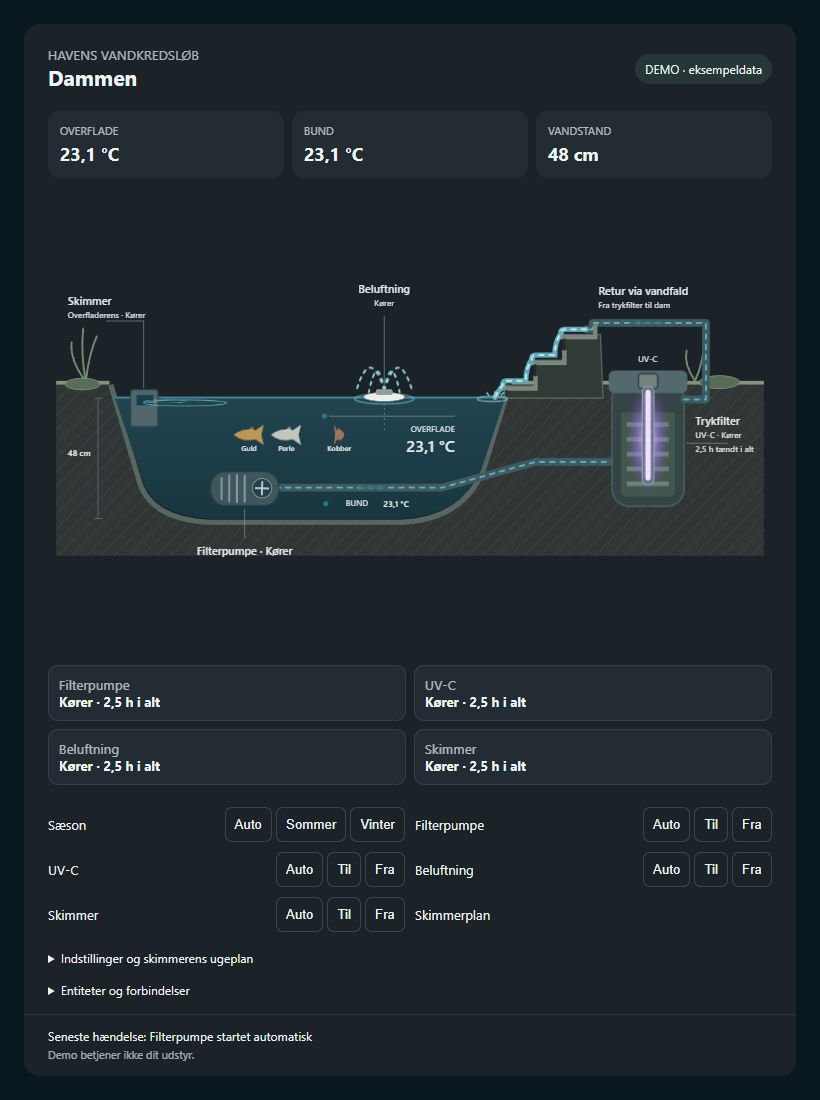
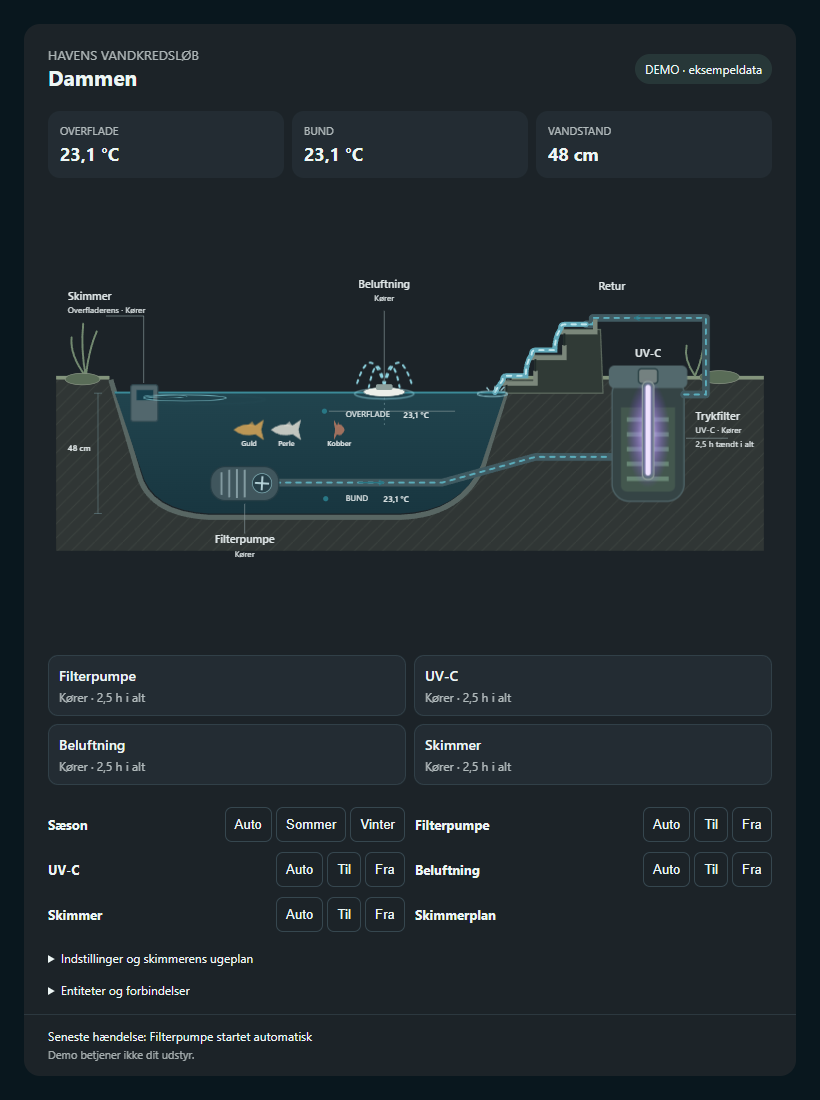
Unify equipment heading and status typography; match temperature labels

diff --git a/pond-flow-card.js b/pond-flow-card.js
@@ -178,7 +178,7 @@ class PondFlowCard extends HTMLElement {
       header{padding:22px 24px 8px;display:flex;justify-content:space-between;align-items:center}h2{font-size:21px;margin:0}small{opacity:.7}.badge{font-size:12px;padding:7px 10px;border-radius:30px;background:#54887933}.metrics{display:grid;grid-template-columns:repeat(3,1fr);gap:8px;padding:12px 24px}.metric{background:#7396a415;padding:12px;border-radius:12px}.metric small{display:block;font-size:11px}.metric strong{display:block;margin-top:4px;font-size:18px}
       svg{width:100%;height:auto;min-height:160px;flex:1 0 auto;display:block}ha-card> :not(svg){flex-shrink:0}svg text{font-family:system-ui;fill:#d7e9ed;font-size:13px}.flow{fill:none;stroke:#53d5db;stroke-width:7;stroke-linecap:round;stroke-dasharray:9 14;opacity:.28}.active{opacity:1;animation:water 2s linear infinite}@keyframes water{to{stroke-dashoffset:-48}}@media(prefers-reduced-motion:reduce){.active{animation:none}}
       .controls{padding:4px 24px 18px;display:grid;grid-template-columns:1fr 1fr;gap:10px}.control{display:flex;justify-content:space-between;align-items:center;gap:8px;font-size:13px}.control select{max-width:115px;padding:8px;border:1px solid #7196a550;border-radius:8px;background:var(--card-background-color,#193340);color:inherit}.status{padding:12px 24px;border-top:1px solid #7196a530;font-size:12px;line-height:1.6}.error{color:#f9a99b}.note{opacity:.65;font-size:11px}@media(max-width:420px){.controls{grid-template-columns:1fr}.metrics{padding:12px}.metric strong{font-size:15px}}
-      [data-info]{cursor:pointer}.diagram-value{font-size:15px;font-weight:600;fill:#fff}.equipment{display:grid;grid-template-columns:repeat(2,minmax(0,1fr));gap:8px;padding:8px 24px 18px}.equipment button{font:inherit;text-align:left;color:inherit;background:#7396a415;border:1px solid #7196a530;border-radius:10px;padding:10px;cursor:pointer}.equipment small{display:block}.equipment strong{font-size:13px}.controls button{padding:9px;border-radius:7px;border:1px solid #7196a550;color:inherit;background:transparent;cursor:pointer}.controls button[aria-pressed=true]{background:#438b8b55}.options{display:flex;gap:4px;flex-wrap:wrap}.control{flex-wrap:wrap}.rotor{transform-box:fill-box;transform-origin:center;animation:spin 1.8s linear infinite}@keyframes spin{to{transform:rotate(360deg)}}@media(prefers-reduced-motion:reduce){.rotor{animation:none}}details{padding:0 24px 16px;font-size:12px;overflow-wrap:anywhere}
+      [data-info]{cursor:pointer}.diagram-value{font-size:15px;font-weight:600;fill:#fff}.equipment{display:grid;grid-template-columns:repeat(2,minmax(0,1fr));gap:8px;padding:8px 24px 18px}.equipment button{font:inherit;text-align:left;color:inherit;background:#7396a415;border:1px solid #7196a530;border-radius:10px;padding:10px;cursor:pointer}.equipment small{display:block;font-size:12px;font-weight:400;margin-top:4px}.equipment strong{display:block;font-size:14px;font-weight:600}.controls button{padding:9px;border-radius:7px;border:1px solid #7196a550;color:inherit;background:transparent;cursor:pointer}.controls button[aria-pressed=true]{background:#438b8b55}.options{display:flex;gap:4px;flex-wrap:wrap}.control{flex-wrap:wrap}.rotor{transform-box:fill-box;transform-origin:center;animation:spin 1.8s linear infinite}@keyframes spin{to{transform:rotate(360deg)}}@media(prefers-reduced-motion:reduce){.rotor{animation:none}}details{padding:0 24px 16px;font-size:12px;overflow-wrap:anywhere}
       .fish-swim{animation:swim var(--swim-duration,22s) linear infinite;animation-delay:var(--swim-delay,0s);transform-box:view-box;transform-origin:0 0}@keyframes swim{0%,100%{transform:translateX(50px)}46%,50%{transform:translateX(-60px)}96%{transform:translateX(50px)}}
       .fish-bubble{fill:none;stroke:#b1d8e0;stroke-width:1.2;opacity:0;animation:fish-bubble 5.5s linear 1 both paused;animation-delay:0s}.fish-bubble:nth-child(2){animation-delay:.2s}.fish-bubble:nth-child(3){animation-delay:.4s}@keyframes fish-bubble{0%{transform:translate(0,0);opacity:0}12%{opacity:.65}75%{opacity:.35}100%{transform:translate(-5px,var(--bubble-rise,-60px));opacity:0}}
       .skimmer-current{visibility:hidden}.skimmer-current.moving{visibility:visible}.intake-ring{fill:none;stroke:#8ad3dc;stroke-width:2;transform-origin:0 0;opacity:0}.moving .intake-ring{animation:intake-ring 3.6s linear infinite}.intake-ring:nth-child(2){animation-delay:-1.2s}.intake-ring:nth-child(3){animation-delay:-2.4s}@keyframes intake-ring{0%{transform:scale(1);opacity:0}15%{opacity:.7}80%{opacity:.5}100%{transform:scale(.04);opacity:0}}.uv-glow{opacity:0}.uv-lamp.on .uv-glow{opacity:1}.uv-tube{fill:#718583}.uv-lamp.on .uv-tube{fill:#efe3ff;filter:drop-shadow(0 0 4px #b489ff)}
@@ -198,7 +198,7 @@ class PondFlowCard extends HTMLElement {
  <pattern id="earth" width="22" height="22" patternUnits="userSpaceOnUse"><path d="M0 22L22 0" stroke="#4a514c" stroke-width=".6"/></pattern>
  <linearGradient id="water" x2="0" y2="1"><stop stop-color="#21444e"/><stop offset="1" stop-color="#183640"/></linearGradient>
  <marker id="arrow" viewBox="0 0 10 10" refX="8" refY="5" markerWidth="5" markerHeight="5" orient="auto-start-reverse"><path d="M0 1L8 5L0 9" fill="none" stroke="#287785" stroke-width="1.7"/></marker>
- <style>.pond-diagram text{font-family:Segoe UI,Arial,sans-serif;fill:var(--primary-text-color,#e1e8e9)}.label{font-size:17px;font-weight:600}.small{font-size:13px;fill:#63777b}.value{font-size:25px;font-weight:600}.leader{fill:none;stroke:#86979a;stroke-width:1}.pipe{fill:none;stroke:#405a61;stroke-width:12;stroke-linejoin:round;stroke-linecap:round}.flow{fill:none;stroke:#5baebd;stroke-width:3;stroke-dasharray:7 9;opacity:.3}.frame{fill:#f9faf7;stroke:#d8dfdb;stroke-width:1}.flow.active{opacity:1}.fish{pointer-events:visiblePainted}</style>
+ <style>.pond-diagram text{font-family:Segoe UI,Arial,sans-serif;fill:var(--primary-text-color,#e1e8e9)}.label{font-size:17px;font-weight:600}.small{font-size:13px;font-weight:400;fill:#63777b}.temperature-reading{font-size:13px;font-weight:600}.leader{fill:none;stroke:#86979a;stroke-width:1}.pipe{fill:none;stroke:#405a61;stroke-width:12;stroke-linejoin:round;stroke-linecap:round}.flow{fill:none;stroke:#5baebd;stroke-width:3;stroke-dasharray:7 9;opacity:.3}.frame{fill:#f9faf7;stroke:#d8dfdb;stroke-width:1}.flow.active{opacity:1}.fish{pointer-events:visiblePainted}</style>
 <radialGradient id="uv-warmth"><stop stop-color="#eadbff" stop-opacity=".9"/><stop offset=".45" stop-color="#b58aff" stop-opacity=".5"/><stop offset="1" stop-color="#8642ed" stop-opacity="0"/></radialGradient><clipPath id="fish-water"><path d="M141 362H748L711 ${474+depth}Q679 ${547+depth} 584 ${550+depth}H288Q198 ${546+depth} 182 ${483+depth}Z"/></clipPath></defs>
 <rect width="1200" height="${760+depth}" rx="24" fill="var(--ha-card-background,var(--card-background-color,#1c2328))"/>
 <!-- Tydeligt tværsnit: jord, bassinfolie og vand. -->
@@ -233,7 +233,7 @@ class PondFlowCard extends HTMLElement {
 <rect x="961" y="345" width="18" height="152" rx="8" fill="#536c6d" stroke="#9cad9f" stroke-width="1.5"/>
 <rect class="uv-tube" x="966" y="350" width="8" height="141" rx="4"/>
 </g>
-<text x="970" y="307" text-anchor="middle" class="small">UV-C</text>
+<text x="970" y="307" text-anchor="middle" class="label">UV-C</text>
 
 <!-- Returledning til et klart aflæseligt vandfald. -->
 <path class="pipe" d="M1026 365H1060V246H884V256H874"/>
@@ -267,21 +267,21 @@ class PondFlowCard extends HTMLElement {
 <path class="leader" d="M560 345V235"/><text x="560" y="199" text-anchor="middle" class="label">Beluftning</text><text x="560" y="220" data-info="aerator_running" text-anchor="middle" class="small">${esc(operating('aerator_running'))}</text>
 <text x="893" y="202" class="label">Retur</text>
 <path class="leader" d="M1029 433H1094"/><text x="1044" y="405" text-anchor="start" class="label">Trykfilter</text><text x="1044" y="425" data-info="uv_running" text-anchor="start" class="small">UV-C · ${esc(operating('uv_running'))}</text><text x="1044" y="447" data-info="uv_hours" class="small">${val('uv_hours','2,5 h')} tændt i alt</text>
-<circle cx="467" cy="391" r="4" fill="#287785"/><path class="leader" d="M474 391H670"/><text x="670" y="415" text-anchor="end" class="small">OVERFLADE</text><text x="670" y="446" data-info="temp_surface" text-anchor="end" class="value">${val('temp_surface','23,1 °C')}</text>
-<circle cx="469" cy="${527+depth}" r="4" fill="#287785"/><text x="500" y="${530+depth}" class="small">BUND</text><text x="559" y="${532+depth}" data-info="temp_bottom" font-size="20" font-weight="600">${val('temp_bottom','23,1 °C')}</text>
+<circle cx="467" cy="391" r="4" fill="#287785"/><path class="leader" d="M474 391H670"/><text x="500" y="400" class="small">OVERFLADE</text><text x="590" y="402" data-info="temp_surface" class="temperature-reading">${val('temp_surface','23,1 °C')}</text>
+<circle cx="469" cy="${527+depth}" r="4" fill="#287785"/><text x="500" y="${530+depth}" class="small">BUND</text><text x="559" y="${532+depth}" data-info="temp_bottom" class="temperature-reading">${val('temp_bottom','23,1 °C')}</text>
 <path d="M115 363V${550+depth}M109 363H121M109 ${550+depth}H121" fill="none" stroke="#627d82"/><text x="104" y="453" data-info="water_level" text-anchor="end" font-size="16" font-weight="600">${val('water_level','48 cm')}</text>
-<path class="leader" d="M343 ${535+depth}V${581+depth}"/><text x="343" y="${606+depth}" data-info="pump_running" text-anchor="middle" class="label">Filterpumpe · ${esc(operating('pump_running'))}</text>
+<path class="leader" d="M343 ${535+depth}V${581+depth}"/><text x="343" y="${596+depth}" text-anchor="middle" class="label">Filterpumpe</text><text x="343" y="${618+depth}" data-info="pump_running" text-anchor="middle" class="small">${esc(operating('pump_running'))}</text>
 
 </svg>
-      <div class="equipment" data-section="equipment">${[['pump_running','Filterpumpe','pump_hours'],['uv_running','UV-C','uv_hours'],['aerator_running','Beluftning','aerator_hours'],['skimmer_running','Skimmer','skimmer_hours']].map(([key,label,hours]) => `<button data-info="${key}"><small>${label}</small><strong>${esc(operating(key))} · ${val(hours,'2,5 h')} i alt</strong></button>`).join('')}</div>
-      ${[...binaryKeys].some(key => this.state(key) && this.state(key).state !== 'off') ? `<div class="equipment alarms" data-section="alarms" role="status">${[...binaryKeys].filter(key => this.state(key) && this.state(key).state !== 'off').map(key => `<button data-info="${key}" class="error"><small>${esc(labels[key])}</small><strong>${['unknown','unavailable'].includes(this.state(key).state) ? 'Status utilgængelig' : 'Aktiv'}</strong></button>`).join('')}</div>` : ''}
+      <div class="equipment" data-section="equipment">${[['pump_running','Filterpumpe','pump_hours'],['uv_running','UV-C','uv_hours'],['aerator_running','Beluftning','aerator_hours'],['skimmer_running','Skimmer','skimmer_hours']].map(([key,label,hours]) => `<button data-info="${key}"><strong>${label}</strong><small>${esc(operating(key))} · ${val(hours,'2,5 h')} i alt</small></button>`).join('')}</div>
+      ${[...binaryKeys].some(key => this.state(key) && this.state(key).state !== 'off') ? `<div class="equipment alarms" data-section="alarms" role="status">${[...binaryKeys].filter(key => this.state(key) && this.state(key).state !== 'off').map(key => `<button data-info="${key}" class="error"><strong>${esc(labels[key])}</strong><small>${['unknown','unavailable'].includes(this.state(key).state) ? 'Status utilgængelig' : 'Aktiv'}</small></button>`).join('')}</div>` : ''}
       <div class="controls" data-section="controls">${controls.map(([key,label]) => {
         const state = this.state(key);
         const options = state?.attributes.options || (key === 'season' ? ['Auto','Sommer','Vinter'] : key === 'skimmer_plan' ? [] : ['Auto','Til','Fra']);
         const disabled = demo || !state || ['unavailable','unknown'].includes(state.state);
-        return `<div class="control"><span>${label}</span><div class="options">${!state && !demo ? '<small>Ikke tilkoblet</small>' : options.map(option => `<button data-key="${key}" data-option="${esc(option)}" aria-label="${label}: ${esc(option)}" aria-pressed="${option === state?.state}" ${disabled ? 'disabled' : ''}>${esc(option)}</button>`).join('')}</div></div>`;
+        return `<div class="control"><strong>${label}</strong><div class="options">${!state && !demo ? '<small>Ikke tilkoblet</small>' : options.map(option => `<button data-key="${key}" data-option="${esc(option)}" aria-label="${label}: ${esc(option)}" aria-pressed="${option === state?.state}" ${disabled ? 'disabled' : ''}>${esc(option)}</button>`).join('')}</div></div>`;
       }).join('')}</div>
-      <details data-section="settings"><summary>Indstillinger og skimmerens ugeplan</summary><div class="equipment">${Object.entries(this._hass?.states || {}).filter(([id]) => ['number','switch'].some(domain => id.startsWith(`${domain}.${this.config.entity_prefix || 'garden_pond_controller'}_`))).map(([id,s]) => `<button data-entity="${esc(id)}"><small>${esc(s.attributes.friendly_name || id)}</small><strong>${esc(s.state)} ${esc(s.attributes.unit_of_measurement || '')}</strong></button>`).join('')}</div><span class="note">Tryk for at åbne og ændre indstillingen i Home Assistant.</span></details>
+      <details data-section="settings"><summary>Indstillinger og skimmerens ugeplan</summary><div class="equipment">${Object.entries(this._hass?.states || {}).filter(([id]) => ['number','switch'].some(domain => id.startsWith(`${domain}.${this.config.entity_prefix || 'garden_pond_controller'}_`))).map(([id,s]) => `<button data-entity="${esc(id)}"><strong>${esc(s.attributes.friendly_name || id)}</strong><small>${esc(s.state)} ${esc(s.attributes.unit_of_measurement || '')}</small></button>`).join('')}</div><span class="note">Tryk for at åbne og ændre indstillingen i Home Assistant.</span></details>
       <details data-section="entities"><summary>Entiteter og forbindelser</summary>${Object.keys(labels).map(key => `<div>${esc(labels[key])}: ${this.state(key) ? '✓' : 'Mangler'} <code>${esc(this.entity(key))}</code></div>`).join('')}</details>
       <div class="status" data-section="status">Seneste hændelse: ${val('last_event','Filterpumpe startet automatisk')}<br><span class="note">${demo ? 'Demo betjener ikke dit udstyr.' : 'Tryk på en måling eller udstyrsstatus for detaljer. Relæstatus bekræfter ikke fysisk drift.'}</span>${this.error ? `<div class="error" role="alert">${esc(this.error)}</div>` : ''}</div>
     </ha-card>`;

diff --git a/README.md b/README.md
@@ -1,5 +1,7 @@
 # Pond Flow Card
 
+Version 0.6.7 ensretter udstyrets navne som fede overskrifter med mindre, almindelig status nedenunder. Filterpumpens navn og status er delt i to linjer i diagrammet. Overflade- og bundtemperatur bruger samme kompakte typografi og vandrette opstilling.
+
 Version 0.6.5 giver den lodrette UV-C-pære en violet glød og viser samlet tændtid direkte ved filterets beskrivelse. UV-C-etiketten er flyttet op over filteret, fri af returledningen. Skimmerringene er fladere, ligger lidt under vandlinjen og afgrænses til dammens vandområde.
 
 Version 0.6.4 viser UV-C-pæren lodret ned gennem filteret med lys kerne og varm glød ved aktiv status. Gløden er en statusillustration, ikke en temperaturmåling. Skimmerens tidligere strømstreger erstattes af tre større overfladeringe, som trækker sig sammen mod indsugningen. Ringene er skjult, når skimmeren er stoppet eller status mangler.
